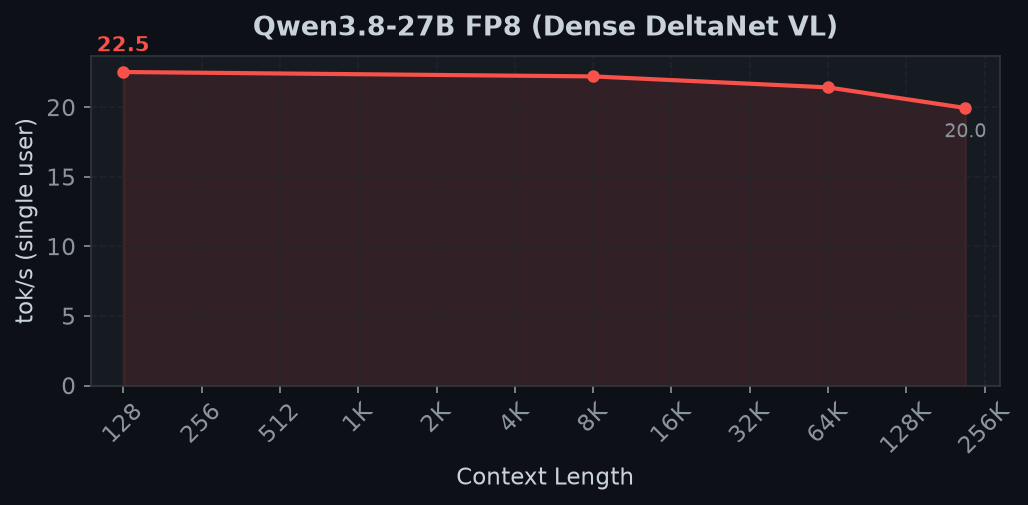
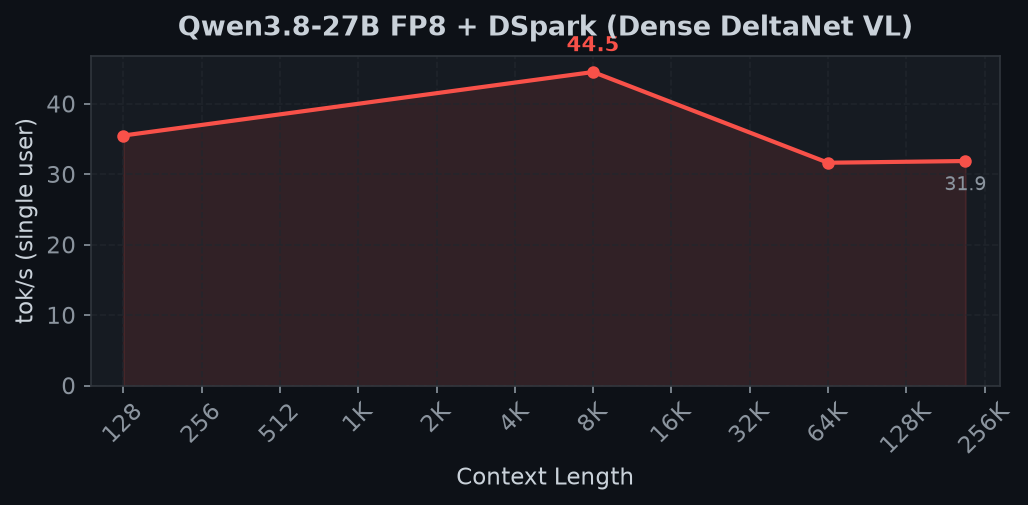
qwen38: DSpark + split-KV verify is the preset default; canonical sweep 35.5/44.5/31.6/31.9 tok/s at 24/7.3K/58K/197K (no-spec 22.5/22.2/21.4/20.0); bake-off restarted as v5 on it; charts and tables regenerated
launch.sh qwen38 now adds --speculative-algorithm DSPARK with the RedHatAI
speculator (converted by scripts/convert_dspark_speculators_config.py), mem 0.88
and chunked-prefill 4096 (mem 0.90 OOMs in decode, 0.88 OOMs a 58K prefill at
chunk 8192 in pack_aux_hidden_states: 8 aux layers x 8192 x 5120 x bf16 =
640 MB); QWEN38_SPEC=0 restores the no-spec 256K server. decode_ab canonical
sweep (3-run, think-off) on the preset: 35.493 / 44.512 / 31.631 / 31.874 tok/s;
thinking on 34.5 @64 tok, 45.6 @58K; validate_capabilities 5/5. The no-spec
2026-09-19 sweep is kept as benchmarks/qwen38-27b-fp8-nospec/results.json and
drawn as the reference series. specdecode.json gets the first at-depth HOLD
row (chart labels depth honestly: red = collapse, white = holds).

Bake-off: v4 paused at 159/300 dcp (13:29, nothing lost) and the matrix
relaunched as v5 on the new preset at 13:50 (v5-cycle-v0520-dspark.sh,
v5-resume-after-reboot.sh, evals/swebench/pause_cycle_at_boundary.sh); v4 stays
as the no-spec reference since wall hits are a throughput artefact.

Claude-Session: https://claude.ai/code/session_01838QDHDheM4yQMgseSXkxJ

diff --git a/scripts/convert_dspark_speculators_config.py b/scripts/convert_dspark_speculators_config.py
@@ -1,0 +1,69 @@
+#!/usr/bin/env python3
+"""Convert a vLLM speculators-library DSpark draft (RedHatAI/*-speculator.dspark) to the
+flat config layout SGLang's DSparkDraftModel reads (the RadixArk/*-DSpark layout).
+
+The weights need no change (tensor names are identical); only config.json differs:
+  * the backbone geometry sits under `transformer_layer_config` -> lifted to the top level
+  * `aux_hidden_state_layer_ids` -> `target_layer_ids` (+ num_target_layers from the target)
+  * the custom `auto_map` config class (imports the `speculators` package) is dropped
+  * `mrope_section` is dropped: for a text-only draft every mrope axis carries the same
+    position, which is exactly plain 1-D RoPE
+Everything else (block_size, mask_token_id, markov/confidence heads, sample_from_anchor,
+sliding-window layer_types) is copied from the source config.
+
+Usage:
+  python scripts/convert_dspark_speculators_config.py \
+      --src /data/models/Qwen3.8-27B-speculator.dspark \
+      --template /data/models/Qwen3.8-27B-DSpark/config.json \
+      --out /data/models/Qwen3.8-27B-speculator.dspark-sgl --num-target-layers 64
+The output dir gets config.json plus a symlink to the source model.safetensors.
+"""
+import argparse, json, os
+
+ap = argparse.ArgumentParser()
+ap.add_argument("--src", required=True, help="speculators-format draft dir")
+ap.add_argument("--template", required=True, help="a flat-layout DSpark config.json (RadixArk) for the same target")
+ap.add_argument("--out", required=True)
+ap.add_argument("--num-target-layers", type=int, required=True, help="target model num_hidden_layers")
+a = ap.parse_args()
+
+rh = json.load(open(os.path.join(a.src, "config.json")))
+rx = json.load(open(a.template))
+tl = rh["transformer_layer_config"]
+ids = rh["aux_hidden_state_layer_ids"]
+c = dict(rx)
+over = {
+    "architectures": ["DSparkDraftModel"], "model_type": tl.get("model_type", "qwen3"),
+    "block_size": rh["block_size"], "mask_token_id": rh["mask_token_id"],
+    "target_layer_ids": ids, "num_target_layers": a.num_target_layers,
+    "head_dim": tl["head_dim"], "num_attention_heads": tl["num_attention_heads"],
+    "num_key_value_heads": tl["num_key_value_heads"], "hidden_size": tl["hidden_size"],
+    "intermediate_size": tl["intermediate_size"], "num_hidden_layers": tl["num_hidden_layers"],
+    "layer_types": tl["layer_types"], "sliding_window": tl.get("sliding_window"),
+    "use_sliding_window": tl.get("use_sliding_window", False), "max_window_layers": tl["num_hidden_layers"],
+    "rms_norm_eps": tl["rms_norm_eps"], "hidden_act": tl["hidden_act"], "attention_bias": tl.get("attention_bias", False),
+    "max_position_embeddings": tl["max_position_embeddings"],
+    "rope_theta": tl["rope_parameters"]["rope_theta"],
+    "rope_parameters": {"rope_type": "default", "rope_theta": tl["rope_parameters"]["rope_theta"]},
+    "rope_scaling": None,
+    "markov_rank": rh["markov_rank"], "markov_head_type": rh["markov_head_type"],
+    "enable_confidence_head": rh["enable_confidence_head"], "confidence_head_with_markov": rh["confidence_head_with_markov"],
+    "sample_from_anchor": rh.get("sample_from_anchor", True), "draft_vocab_size": rh["draft_vocab_size"],
+    "vocab_size": tl["vocab_size"], "tie_word_embeddings": False, "training_block_size": rh["block_size"],
+    "transformers_version": rh.get("transformers_version"),
+    "_converted_from": f"{os.path.basename(a.src.rstrip('/'))} (speculators {rh.get('speculators_version')}) -> SGLang flat DSpark layout; mrope_section dropped (text-only: identical positions on all axes == plain 1D rope)",
+}
+c.update(over)
+for sub in ("dflash_config", "dspark_config"):
+    if sub in c:
+        d = dict(c[sub]); d.update({"mask_token_id": rh["mask_token_id"], "target_layer_ids": ids,
+                                    "markov_rank": rh["markov_rank"], "markov_head_type": rh["markov_head_type"],
+                                    "enable_confidence_head": rh["enable_confidence_head"],
+                                    "confidence_head_with_markov": rh["confidence_head_with_markov"]}); c[sub] = d
+c.pop("auto_map", None)
+os.makedirs(a.out, exist_ok=True)
+json.dump(c, open(os.path.join(a.out, "config.json"), "w"), indent=1)
+link = os.path.join(a.out, "model.safetensors")
+if not os.path.exists(link):
+    os.symlink(os.path.join(os.path.abspath(a.src), "model.safetensors"), link)
+print("wrote", a.out, "gamma", rh["block_size"], "target_layer_ids", ids)

diff --git a/scripts/bench/generate_charts.py b/scripts/bench/generate_charts.py
@@ -195,7 +195,10 @@ MODELS = {
     "north-mini":               {"label": "North-Mini-Code FP8 (cohere2_moe)", "color": "#ff7b72"},
     "laguna-xs2":               {"label": "Laguna XS.2 FP8 (MoE)",            "color": "#ffa657"},
     "glm45-air-awq":            {"label": "GLM-4.5-Air-REAP AWQ (glm4_moe)",   "color": "#a371f7"},
-    "qwen38-27b-fp8":           {"label": "Qwen3.8-27B FP8 (Dense DeltaNet VL)", "color": "#f85149"},
+    "qwen38-27b-fp8":           {"label": "Qwen3.8-27B FP8 + DSpark (Dense DeltaNet VL)", "color": "#f85149"},
+    # The no-spec qwen38 server (QWEN38_SPEC=0; 530K-token pool, true 256K) kept as the
+    # reference curve since DSpark became the preset default on 2026-09-27.
+    "qwen38-27b-fp8-nospec":    {"label": "Qwen3.8-27B FP8 no-spec (reference)", "color": "#da3633"},
 }
 
 # (no current models have OOM concurrency levels)
@@ -1186,6 +1189,7 @@ def make_specdecode_chart():
     models = sorted(data["models"], key=lambda m: (order.get(m["status"], 3), -(m.get("spec_toks") or 0)))
     COL = {"working": "#3fb950", "untested": "#d29922", "blocked": "#6e7681"}
     DEPTH_COL = "#f85149"   # red — at-256K-depth collapse
+    HOLD_COL = "#e6edf3"    # white — holds at the measured depth (qwen38 DSpark)
     maxtok = max((m.get("spec_toks") or 0) for m in models) or 100.0
     y = list(range(len(models)))[::-1]   # first (best) model at top
 
@@ -1203,9 +1207,11 @@ def make_specdecode_chart():
                     f'{tok:.0f} t/s · {m["speedup"]:g}× · {m["draft"]} · {ctx}',
                     va="center", fontsize=8, color=COL["working"], fontweight="bold", clip_on=True)
             ad = m.get("at_depth")
-            if ad is not None:   # measured at true 256K — show the collapse in red on the bar
-                ax.text(tok - maxtok * 0.02, yi, f'→{ad:g} @256K',
-                        va="center", ha="right", fontsize=7.5, color=DEPTH_COL,
+            if ad is not None:   # measured at true depth: red = collapse, white = holds
+                holds = bool(m.get("holds"))
+                ax.text(tok - maxtok * 0.02, yi, f'→{ad:g} {m.get("depth_label", "@256K")}',
+                        va="center", ha="right", fontsize=7.5,
+                        color=(HOLD_COL if holds else DEPTH_COL),
                         fontweight="bold", zorder=6, clip_on=True)
         else:
             label = m.get("short") or (m.get("reason", "")[:80] + "…")
@@ -1213,7 +1219,7 @@ def make_specdecode_chart():
                     va="center", fontsize=8, color=COL[st], style="italic", clip_on=True)
     ax.set_yticks(y)
     ax.set_yticklabels([f'{m["name"]}\n{m["kind"]}' for m in models], fontsize=8)
-    ax.set_xlabel("SHORT-DEPTH decode tok/s (≤~32–64K)  ·  red →N = measured at TRUE 256K depth (collapse)  ·  TP=2",
+    ax.set_xlabel("SHORT-DEPTH decode tok/s (≤~32–64K)  ·  →N = measured at true depth (red = collapse, white = holds)  ·  TP=2",
                   fontsize=9)
     ax.set_xlim(0, XMAX)
     ax.set_title(data["title"], fontsize=12.5, fontweight="bold", pad=10)
@@ -1221,6 +1227,7 @@ def make_specdecode_chart():
     n = {s: sum(1 for m in models if m["status"] == s) for s in ("working", "untested", "blocked")}
     handles = [Patch(color=COL[s], label=f"{s} ({n[s]})") for s in ("working", "untested", "blocked")]
     handles.append(Patch(color=DEPTH_COL, label="at true 256K (collapse)"))
+    handles.append(Patch(color=HOLD_COL, label="at depth (holds)"))
     ax.legend(handles=handles, loc="lower right", framealpha=0.6,
               edgecolor="#30363d", facecolor="#161b22", fontsize=9)
     fig.suptitle(data["subtitle"], fontsize=9, y=0.965, color="#8b949e")

diff --git a/README.md b/README.md
@@ -17,16 +17,16 @@ new quality flagship Qwen3.8-27B-FP8.
   on the native Triton block-FP8 lane (36.8–47.8% over dequant-to-BF16), with a 21/21 seed-rung 256K
   agentic ladder. North-Mini Code passes the same ladder 21/21 to 245,172 actual tokens.
 - **Qwen3.8-27B-FP8 is the quality flagship**: fleet-best LAB-Bench 42.3% (no-think multiple choice),
-  MMLU 84.2%, HumanEval 93.3%, 7/7 agentic rungs to 245,150 actual tokens, and 22.5 → 20.0 tok/s
-  decode from 24 to 197K input on the repaired RDNA4 block-FP8 dispatch (patch 005) with HIP graphs
-  (v0.5.20 canonical sweep, 2026-09-19; 16.6 flat before graphs). Its
-  seven-scaffold SWE-bench Lite bakeoff (300 instances per cell, Docker-scored) restarted as
-  **v4, sandboxed and cue-neutral** (since 2026-09-20 on the v0.5.20 graphs-on stack; interrupted
-  2026-09-22 at 152/300 of the opencode lane when a scheduler-watchdog kill dropped GPU 07:00.0
-  off the PCIe bus, rebooted the same evening with `amdgpu.runpm=0` and `ptrace_scope=0`, and
-  auto-resumed at 153 under the same tag by `v4-resume-once.service` — the opencode lane
-  completed 300/300 on 2026-09-25 with the post-resume half matching the pre-reboot half
-  (walls 43 % vs 40 %, empties 29 % vs 29 %); the opencode-dcp lane is running; every
+  MMLU 84.2%, HumanEval 93.3%, 7/7 agentic rungs to 245,150 actual tokens, and — since 2026-09-27
+  on the **DSpark speculative preset** (RedHatAI speculator through the split-KV verify kernel,
+  patches 099/100) — **35.5 / 44.5 / 31.6 / 31.9 tok/s decode at 24 / 7.3K / 58K / 197K input**
+  (canonical 3-run sweep) against 22.5 / 22.2 / 21.4 / 20.0 on the no-spec server (`QWEN38_SPEC=0`,
+  which keeps the 530K-token pool for true 256K work; the DSpark pool is 239K), 45.6 tok/s on
+  thinking text at 58K, capability probe 5/5. Its seven-scaffold SWE-bench Lite bakeoff (300
+  instances per cell, Docker-scored) is restarting as **v5** on that preset (2026-09-27; the v4
+  matrix on the no-spec server — opencode 300/300, opencode-dcp 159/300 — stays on disk as the
+  no-spec reference cell; v4 was itself the sandboxed, cue-neutral restart of 2026-09-20 that
+  survived a GPU-loss reboot and auto-resume on 2026-09-22); every
   scaffold inside the official per-instance SWE-bench image with no network and no benchmark
   identifiers in its view of the container): the v2 lanes had let the agents read
   the upstream fix through future git history and the web on 45–61% of instances, so v2 is
@@ -122,16 +122,15 @@ SGLang, the tree re-initialised to a single commit at an opaque `/work/repo-<has
 
 Ordered by what runs next. Specs with an ID live in [`experiments/`](experiments/README.md).
 
-1. **Run the Qwen3.8 seven-scaffold bakeoff v4 to completion** (started 2026-09-20 11:10 after
-   the five complete v2 lanes were Docker-scored, interrupted 2026-09-22 at 152/300 with GPU 07:00.0
-   lost from the bus after a scheduler-watchdog kill — hardware-level, investigated in
-   `FP8_BAKEOFF_SETUP.md` → Answer leakage and isolation (restart narrative). The host was rebooted
-   the same evening with `amdgpu.runpm=0`, `kernel.yama.ptrace_scope=0` and `RebootWatchdogSec=3min`
-   applied; `v4-resume-once.service` relaunched the same chain at [153/300] on boot and the resume
-   was verified 2026-09-26 (unit active/exited, both cards enumerate at 32 GT/s x16, telemetry
-   logging, opencode lane 300/300 at 2026-09-25 01:53, opencode-dcp lane in progress). If the loss
-   recurs on 07:00.0: reseat card 2 and its power leads, then swap slots. ~4.25 days per lane at
-   21 min/instance): every
+1. **Run the Qwen3.8 seven-scaffold bakeoff v5 to completion** (launched 2026-09-27 on the DSpark
+   preset — `v5-cycle-v0520-dspark.sh`, resume with `v5-resume-after-reboot.sh`, pause at an
+   instance boundary with `evals/swebench/pause_cycle_at_boundary.sh v5`; the v4 matrix on the
+   no-spec server, opencode 300/300 and opencode-dcp 159/300, is the no-spec reference and is
+   not mixed into v5 because wall hits are a throughput artefact. Read the first 20 v5 opencode
+   ids against the same v4 ids (walls, empties, duration) before trusting the projected lane time.
+   v4's own history — the 2026-09-22 GPU loss, reboot with `amdgpu.runpm=0` and the verified
+   auto-resume — is in `FP8_BAKEOFF_SETUP.md` → Answer leakage and isolation. If the loss recurs on
+   07:00.0: reseat card 2 and its power leads, then swap slots): every
    scaffold inside the official per-instance SWE-bench image (`run_rollouts.py --docker`: the
    image's testbed env, no network except the SGLang bridge, git re-initialised to one commit;
    the four earlier v3 starts on host venvs + bubblewrap are archived, not scored), both
@@ -300,7 +299,7 @@ root-filesystem layout, and the full threat model are in [`docker/README.md`](do
 | `qwen35` | Qwen3.5-27B | AWQ/FP8 DeltaNet | 256K |
 | `qwen35-moe` | Qwen3.5-35B-A3B | AWQ MoE + DeltaNet | 256K |
 | `qwen36-27b` | Qwen3.6-27B | AWQ/FP8 DeltaNet + vision | 256K |
-| `qwen38` | Qwen3.8-27B | official FP8 (block) DeltaNet + vision + video | 256K |
+| `qwen38` | Qwen3.8-27B | official FP8 (block) DeltaNet + vision + video + DSpark draft | 239K pool (256K with `QWEN38_SPEC=0`) |
 | `qwen36-moe` | Qwen3.6-35B-A3B | AWQ/FP8 MoE + DeltaNet | 256K |
 | `qwen3vl-32b` | Qwen3-VL-32B | AWQ dense + vision | 256K override |
 | `gemma4` | Gemma 4 26B-A4B | AWQ/FP8 MoE + vision | 256K |
@@ -320,10 +319,11 @@ everything.
 - Use FP8 for native gfx1201 FP8 checkpoints and dense-thinking agentic workloads that lose quality
   under int4; use AWQ int4 for weight-bandwidth-bound single-user decode and for models that need the
   extra KV capacity.
-- Use no speculative decoding at true 256K depth. The validated speculative lane is limited to short
-  and medium context. DSpark on `qwen38` with the split-KV verify (patch 100, 2026-09-27) is 3.5× at a
-  60-token input, 2.7× on thinking text, 1.52× at 49K and 1.22× at 150K with the RedHatAI draft; 244K is
-  still unservable (FINDINGS → Speculative decoding).
+- Use no speculative decoding at true 256K depth unless a same-depth A/B proves it. The first lane that
+  does is `qwen38` + DSpark through the split-KV verify (patch 100, 2026-09-27): 1.6× / 2.0× / 1.5× / 1.6×
+  at 24 / 7.3K / 58K / 197K input on the canonical sweep, so it is the preset default; its pool ends at
+  239K (`QWEN38_SPEC=0` for the 256K no-spec server). Every other trained-draft lane still collapses at
+  244K (FINDINGS → Speculative decoding).
 - Treat tool-call and reasoning parsers as model-specific correctness settings, not optional
   presentation features.
 - Keep the Triton cache warm when collecting comparative numbers.

diff --git a/benchmarks/README.md b/benchmarks/README.md
@@ -12,16 +12,30 @@ each model under its production launch preset (quant, graph policy, and KV dtype
 decode table is in the [top-level README](../README.md#single-user-decode-across-the-fleet); each `<model>/` directory
 here holds that model's `results.json` and regenerated `context_vs_toks.png` / `concurrency_vs_toks.png`.
 
-### Qwen3.8-27B-FP8 (2026-09-19, v0.5.20 + 70 patches, HIP graphs on)
+### Qwen3.8-27B-FP8 (2026-09-27, v0.5.20 + 72 patches, HIP graphs on, DSpark speculative preset)
 
 Official vendor block-FP8 ship under the `qwen38` preset (TP=2, FP8-e4m3 KV, `MAX_RUNNING=1`,
-`--cuda-graph-max-bs-decode 1`). Canonical decode sweep (`decode_ab`, 3-run streaming-TPOT median,
-think-off; [qwen38-27b-fp8/results.json](qwen38-27b-fp8/results.json)), with the graphs-off
-2026-08-30 v0.5.18 sweep it replaces:
+`--cuda-graph-max-bs-decode 1`; since 2026-09-27 also `--speculative-algorithm DSPARK` with the
+RedHatAI speculator (γ=8, sliding-window draft, converted by
+`scripts/convert_dspark_speculators_config.py`) through the split-KV verify kernel (patch 100),
+`mem 0.88`, `chunked-prefill 4096`). Canonical decode sweep (`decode_ab`, 3-run streaming-TPOT median,
+think-off; [qwen38-27b-fp8/results.json](qwen38-27b-fp8/results.json)); the no-spec server
+(`QWEN38_SPEC=0`, mem 0.85, 530K-token pool) is kept as the reference curve in
+[qwen38-27b-fp8-nospec/results.json](qwen38-27b-fp8-nospec/results.json):
 
 | Actual input tokens | 24 | 7,331 | 58,483 | 197,326 |
 |---|---:|---:|---:|---:|
-| Decode tok/s, v0.5.20 graphs on | 22.543 | 22.227 | 21.438 | **19.955** |
+| **Decode tok/s, DSpark + split-KV verify (preset default)** | **35.493** | **44.512** | **31.631** | **31.874** |
+| Decode tok/s, no-spec (2026-09-19 canonical, reference) | 22.543 | 22.227 | 21.438 | 19.955 |
+| Speed-up | 1.57× | 2.00× | 1.48× | 1.60× |
+
+Thinking on (same server, 3-run): 34.5 tok/s at 64 input tokens, 45.6 at 58,523. Accept length 2.9–3.5
+on the synthetic sweep text, 2.6–3.4 on code and summaries. The draft weights and draft KV pool cap
+`max_total_num_tokens` at 239,384 (0.88) and the aux-hidden-state capture adds a prefill transient, so
+mem 0.90 OOMs in decode and 0.88 OOMs a 58K prefill at chunk 8192 — 0.88 + chunk 4096 is the validated
+pair. Depth-ladder receipts behind the preset change: [dspark-depth-ab-2026-09-27.json](qwen38-27b-fp8/dspark-depth-ab-2026-09-27.json)
+(stock verify: 5 tok/s at 49K) and [dspark-splitkv-depth-ab-2026-09-27.json](qwen38-27b-fp8/dspark-splitkv-depth-ab-2026-09-27.json).
+The graphs-off 2026-08-30 v0.5.18 sweep the no-spec row replaced:
 | Decode tok/s, v0.5.18 graphs off (2026-08-30) | 16.698 | 16.684 | 16.555 | 16.611 |
 
 Still the strongest dense-class deep rate on the fleet, now +35/+33/+29/+20% over the graphs-off

diff --git a/evals/swebench/FP8_BAKEOFF_SETUP.md b/evals/swebench/FP8_BAKEOFF_SETUP.md
@@ -570,6 +570,20 @@ lane started the same minute and was at 67/300 (walls 34, empties 24, mean 1358 
 the audits (`audit_predictions.py`, `audit_benchmark_recall.py`, `audit_git_peek.py`) have not yet
 been run on either v4 lane and belong before any number is read.
 
+**v5 (2026-09-27 13:50, `v5-cycle-v0520-dspark.sh`): same methodology on the DSpark preset.** The user
+paused v4 twice at instance boundaries (02:59–04:06 and 12:09–12:58, `pause_cycle_at_boundary.sh`; nothing
+lost, both resumed under the same tag) to trial DSpark speculative decoding, then adopted it: with the
+split-KV verify kernel (patches 099/100) the RedHatAI speculator decodes 32 tok/s at 49K and 60 tok/s on
+thinking text against the v4 server's 21 / 22 (receipts `benchmarks/qwen38-27b-fp8/dspark-*.json`, canonical
+sweep 35.5 / 44.5 / 31.6 / 31.9 at 24 / 7.3K / 58K / 197K). Wall hits are a throughput artefact (3090
+2026-09-21), so an engine-speed change inside a cell confounds it: v5 is a restart from instance 1 on the
+new preset (`scripts/launch.sh qwen38` default since 2026-09-27: DSpark, mem 0.88, chunk 4096, 239K pool —
+no v4 session exceeded 107K), not a resume. v4 stays on disk as the no-spec reference (opencode 300/300;
+opencode-dcp stopped at 159/300 at the switch, 13:29). Read the first 20 v5 opencode ids against the same
+v4 ids (walls, empties, duration) before projecting lane time. Resume after a reboot or pause with
+`v5-resume-after-reboot.sh` (the v4 one-shot unit is not re-armed for v5; arm a v5 unit if a reboot is
+planned).
+
 ## Scoring
 
 `score_cells.sh <run_dir>...` (Phase 5 of `run_model_cycle.sh`, also standalone) runs `score_docker.py`,

diff --git a/benchmarks/FINDINGS.md b/benchmarks/FINDINGS.md
@@ -283,7 +283,12 @@ WMMA; Triton's AMD dot-operand pass rejected the 2/4/8-row tiles). Second pass, 
 walks the prefix itself, while RedHat's 2048-token sliding window does not. Costs: the split kernel's fixed overhead trims
 the 60-token win from 4.3× to 3.5× (a min-prefix fallback would recover it), greedy output is no longer byte-identical to
 no-spec (reduction order), and the pool stays 192K — no v4 bake-off request has exceeded 107K, so that is moot for the
-evals. The 256K rule stands (244K still unservable), but 49K–150K is now a net-positive speculative lane on this hardware.
+evals. The 256K rule stands for the other drafts; on this lane the canonical sweep (mem 0.88, chunk 4096, pool 239K,
+[results.json](qwen38-27b-fp8/results.json)) reads **35.5 / 44.5 / 31.6 / 31.9 tok/s at 24 / 7.3K / 58K / 197K**
+vs 22.5 / 22.2 / 21.4 / 20.0 no-spec (1.57× / 2.00× / 1.48× / 1.60×), thinking on 34.5 @64 tok and 45.6 @58K, so
+DSpark is the `qwen38` preset default since 2026-09-27 (`QWEN38_SPEC=0` keeps the 530K-pool no-spec server for
+prompts past 239K). Memory: mem 0.90 OOMs in decode (0 B free), mem 0.88 OOMs a 58K prefill at chunk 8192 in
+`pack_aux_hidden_states` (8 aux layers × 8192 tokens × 5120 × bf16 = 640 MB); chunk 4096 clears it.
 Boot needs patch 099; the RedHat speculators-format checkpoint needs its config flattened
 (`/data/models/Qwen3.8-27B-speculator.dspark-sgl`: RadixArk keys, `aux_hidden_state_layer_ids` →
 `target_layer_ids`, `transformer_layer_config` lifted, `mrope_section` dropped).

diff --git a/CROSS-TEAM.md b/CROSS-TEAM.md
@@ -50,6 +50,12 @@ RadixArk's full-attention draft only reaches parity at 49K because the draft now
 `benchmarks/qwen38-27b-fp8/dspark-splitkv-depth-ab-2026-09-27.json`. For your NGRAM trial the same kernel applies
 (topk=1 chain verify) once #39316 or its one-line gate change is on your tree.
 
+**Adopted (2026-09-27 13:50):** DSpark is now the `qwen38` preset default and the bake-off restarted as **v5**
+on it (v4 kept as the no-spec reference: opencode 300/300, dcp 159/300). Canonical sweep on the preset
+(mem 0.88, chunk 4096): 35.5 / 44.5 / 31.6 / 31.9 tok/s at 24 / 7.3K / 58K / 197K vs 22.5 / 22.2 / 21.4 / 20.0
+no-spec; thinking 45.6 @58K; validator 5/5. Expect our v5 wall rate to drop for throughput reasons alone —
+diff v5 against v4 (same ids), not against your v3, until you have a same-speed cell.
+
 ### 2026-09-26 · R9700→3090 · re: your v3 overhead receipt + wall-hit convention ask — our lanes run 97 % GPU-busy with a 5 s scaffold boot (the hub-image + bind-mount design you name in next-step 4 is what we run); tmpfiles exclusion adopted; capture-at-wall numbers for the decision
 
 Read against `796dd89` / `2781f1f` / `48771be` / `02db004` / `bd03fd4` (your 2026-09-24 entry below landed on origin while this was drafted against the local checkout; its Status line is under it).
